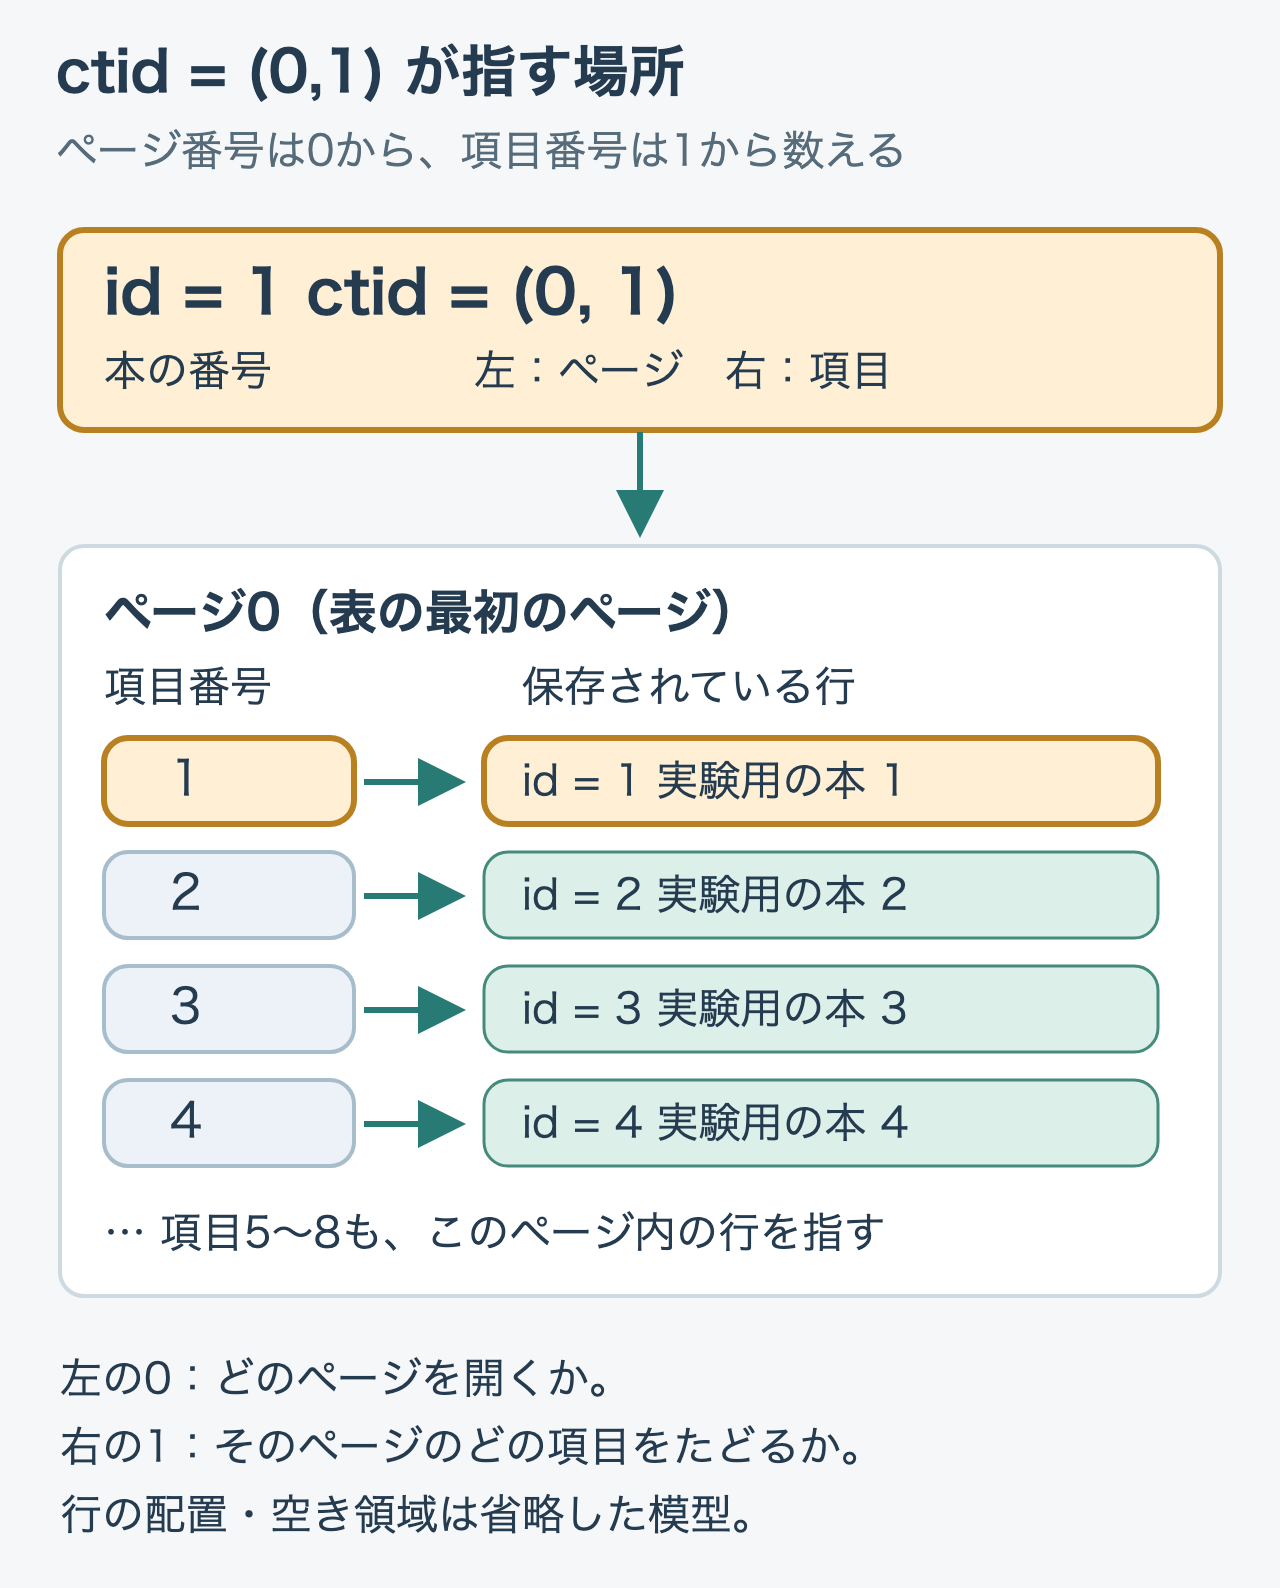
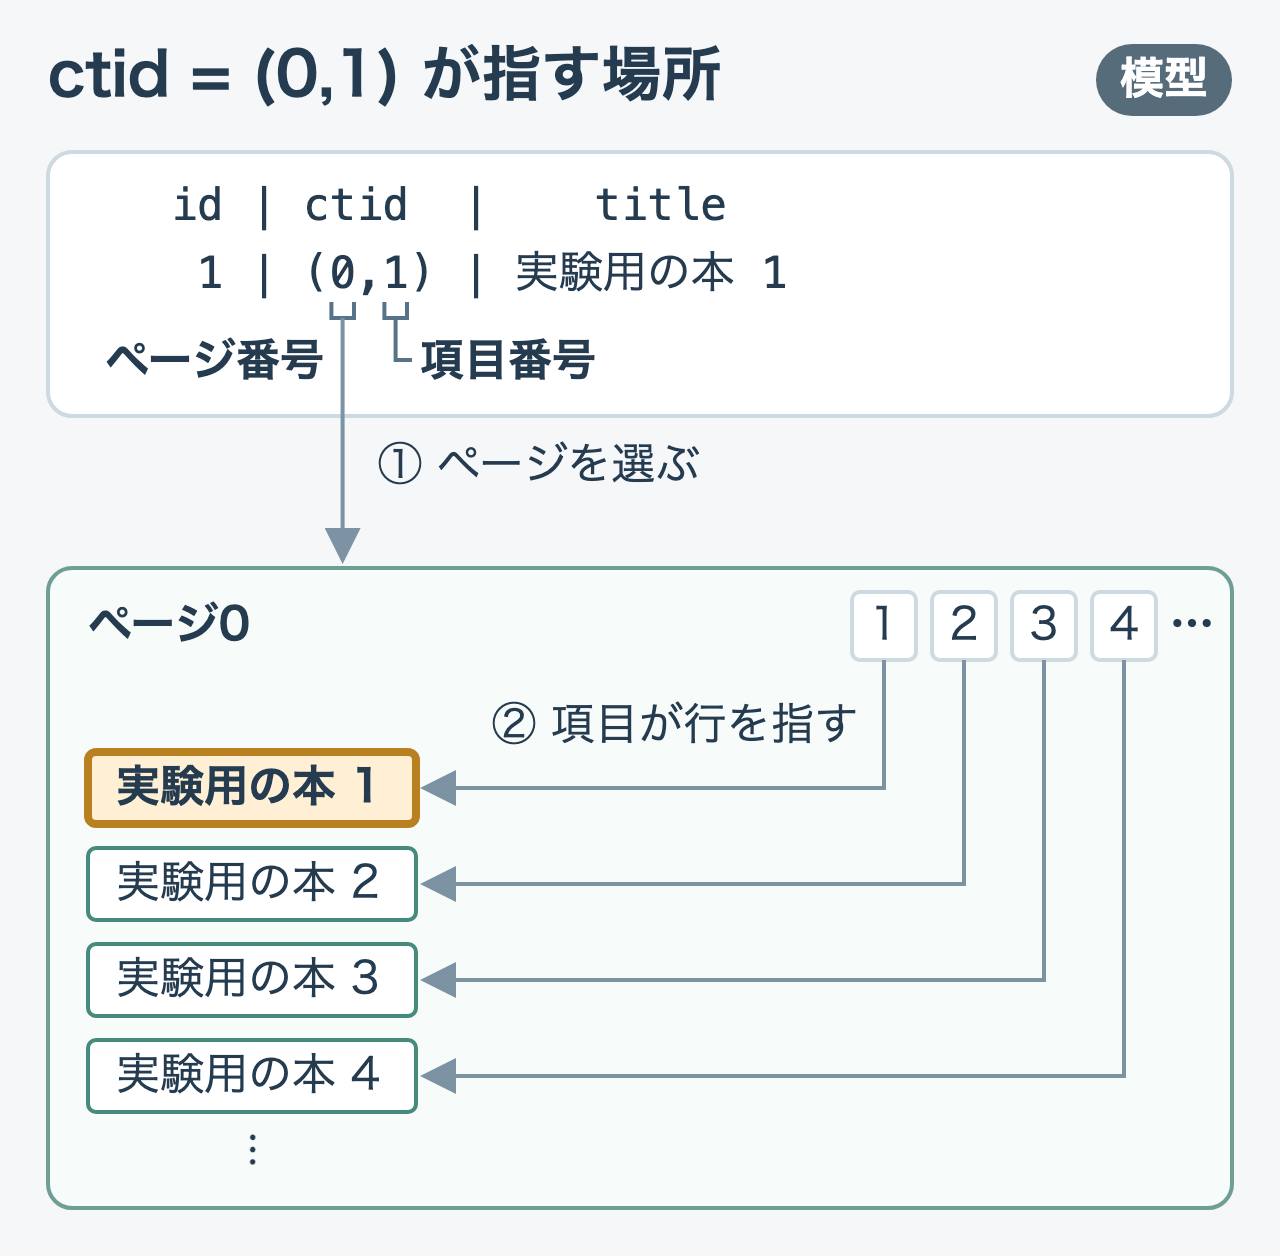
docs(query-journey): 第4章のctidの図を、出力と同じ字面と括弧線で描き直す
「id = 1 ctid = (0, 1)」のように出力と違う書き方で、0と1の意味を文で書いていた。出力と同じ字面の2行に括弧線で「ページ番号」「項目番号」を付け、「① ページを選ぶ」「② 項目が行を指す」の2本の矢印にした。

diff --git a/books/postgresql-query-journey/04-pages-and-storage.md b/books/postgresql-query-journey/04-pages-and-storage.md
@@ -170,8 +170,8 @@ FROM books ORDER BY id LIMIT 8;
 
 `ctid`の二つの数は、左から「ページ番号」「そのページ内で行を指す項目の番号」です。ページ番号は0から、項目番号は1から始まります。まずページ0を開き、その中の1番の項目から行の場所をたどる、と読みます。
 
-![ctidの左の0でページを選び、右の1でページ内の項目を選ぶ](/images/postgresql-query-journey/03-ctid-location.png)
-*掲載出力の対応を示す模型。行の物理的な並びや空き領域の配置は再現していません。*
+![出力の1行目のctid (0,1)の0でページ0を選び、1の項目をたどって、実験用の本 1の行に届く](/images/postgresql-query-journey/03-ctid-location.png)
+*(0,1)の0がページを、1がページの中の項目を選ぶことを見てください。掲載した出力に合わせた模型で、ページの中の並びや空き領域は再現していません。*
 
 出力の8行は、`ctid`の左側がすべて0です。本1から本8までは同じページにあり、右側の1〜8で別々の行を指しています。`LIMIT 8`で表示を止めたので、ページ0に入る行がこの8行だけとは限りません。
 
